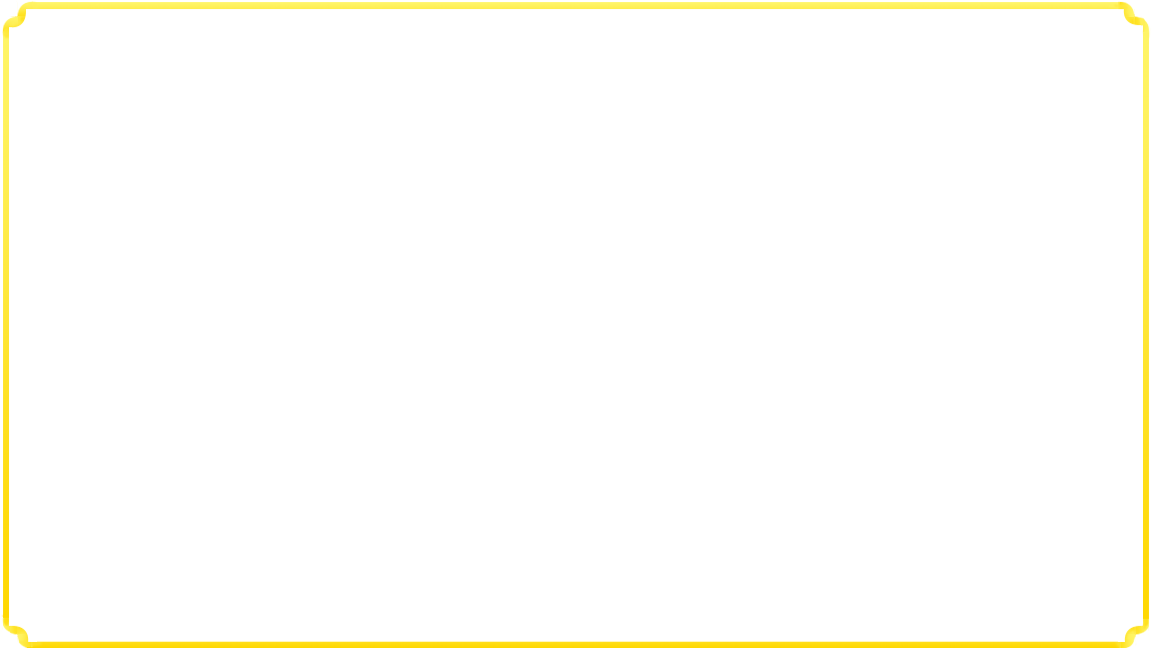
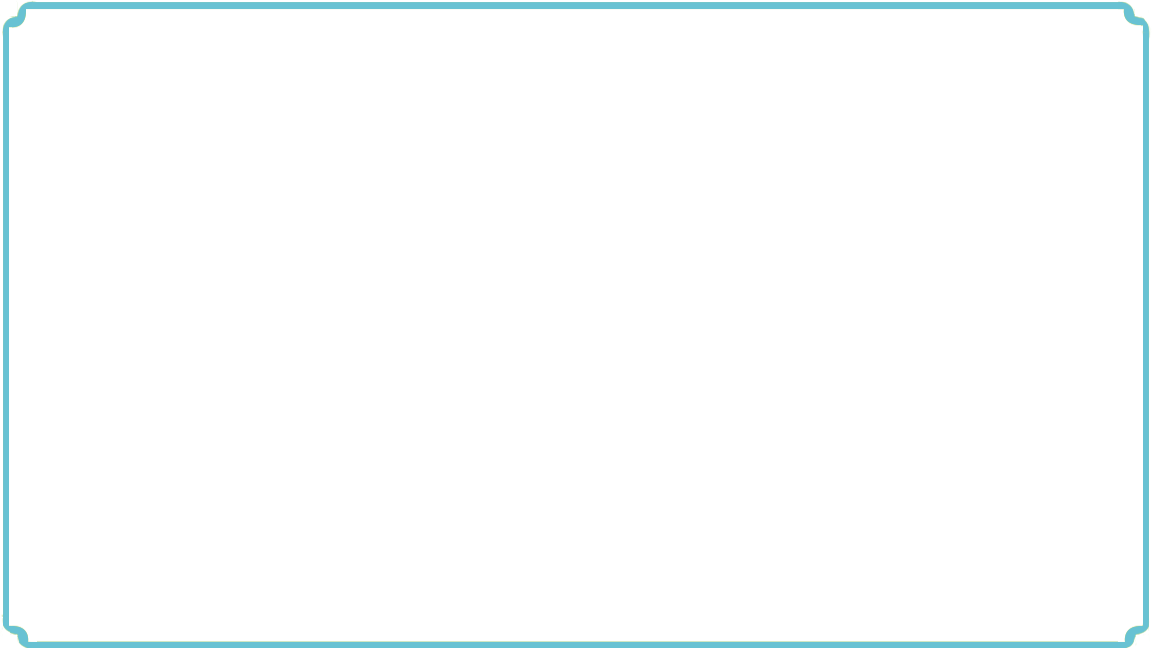
change color pallete

Changed region(s): [[0.0, 0.0, 1.0, 1.0]]

diff --git a/src/App.css b/src/App.css
@@ -4,10 +4,10 @@
 :root {
   --color-black: #000000;
   --color-white: #ffffff;
-  --color-raisin: #222221;
-  --color-apple: #4faf44;
-  --color-flavescent: #fff090;
-  --color-sun: #f6eb14;
+  --color-alabaster: #f2f0e5;
+  --color-iceberg: #68c2d3;
+  --color-cyan-azure: #4b80ca;
+  --color-sea-foam: #a2dcc7;
 }
 
 * {
@@ -40,7 +40,10 @@ body {
 }
 
 h1.title {
-  background: -webkit-linear-gradient(var(--color-apple), var(--color-sun));
+  background: -webkit-linear-gradient(
+    var(--color-cyan-azure),
+    var(--color-iceberg)
+  );
   background-clip: text;
   -webkit-text-fill-color: transparent;
   z-index: 9999;
@@ -60,7 +63,7 @@ h1.title {
   position: absolute;
   width: 100vw;
   height: 100vh;
-  background-color: var(--color-raisin);
+  background-color: var(--color-alabaster);
   display: flex;
   justify-content: center;
   align-items: center;
@@ -72,10 +75,9 @@ h1.title {
 }
 
 .vignette {
-  position: fixed;
-  top: 0;
-  left: 0;
-  width: 100%;
-  height: 100%;
-  box-shadow: inset 0 0 5em 1em #000;
+  width: 100vw;
+  height: 100vh;
+  background-image: url(https://s3-us-west-2.amazonaws.com/s.cdpn.io/86186/crt.png);
+  background-repeat: no-repeat;
+  background-size: 100% 100%;
 }

diff --git a/src/main/style.css b/src/main/style.css
@@ -1,6 +1,3 @@
-
-
-
 .main-wrapper {
   display: flex;
   flex-direction: column;
@@ -28,7 +25,7 @@ a {
 .arrow-menu {
   position: relative;
   display: block;
-  color: var(--color-sun);
+  color: var(--color-cyan-azure);
 }
 
 .menu-list-menu,
@@ -48,7 +45,10 @@ a {
 
 .title-menu h1,
 h2 {
-  background: -webkit-linear-gradient(var(--color-apple), var(--color-sun));
+  background: -webkit-linear-gradient(
+    var(--color-cyan-azure),
+    var(--color-iceberg)
+  );
   background-clip: text;
   -webkit-text-fill-color: transparent;
   transform: perspective(200px) rotateX(40deg);
@@ -57,7 +57,7 @@ h2 {
 .title-menu p {
   font-size: 15px;
   margin-left: -32px;
-  color: var(--color-white);
+  color: var(--color-sea-foam);
   font-family: 'Offside';
 }
 
@@ -70,7 +70,7 @@ h2 {
 }
 .arrow-menu:hover {
   cursor: pointer;
-  background-color: rgba(0, 0, 0, 0.2);
+  background-color: rgba(0, 0, 0, 0.1);
 }
 
 .arrow-menu:hover .sign-menu {

diff --git a/src/constants/variants.js b/src/constants/variants.js
@@ -1,6 +1,6 @@
 const colors = {
   white: '#FFFFFF',
-  raisin: '#222221',
+  alabaster: '#f2f0e5',
 }
 
 export const transitionVariant = {
@@ -8,13 +8,13 @@ export const transitionVariant = {
   animate: {
     scaleY: [0, 0.01, 0.01, 0.01, 1],
     scaleX: [0, 0.1, 0.5, 0.9, 1],
-    backgroundColor: [colors.white, colors.raisin],
+    backgroundColor: [colors.white, colors.alabaster],
     transition: { duration: 0.2, ease: 'easeInOut' },
   },
   exit: {
     scaleY: [1, 0.01, 0.01, 0.01, 0],
     scaleX: [1, 0.9, 0.5, 0.1, 0],
-    backgroundColor: [colors.raisin, colors.white],
+    backgroundColor: [colors.alabaster, colors.white],
     transition: { duration: 0.2, ease: 'easeInOut' },
   },
 }

diff --git a/src/components/menu-header/style.css b/src/components/menu-header/style.css
@@ -5,7 +5,6 @@
   left: -135px;
   z-index: 9999;
   text-transform: capitalize;
-  color: var(--color-sun);
   transform: rotate(270deg);
 }
 
@@ -18,5 +17,5 @@
 .selected {
   text-decoration-thickness: 2px !important;
   text-decoration: line-through;
-  text-decoration-color: var(--color-raisin) !important;
+  text-decoration-color: var(--color-alabaster) !important;
 }

diff --git a/src/constants/imagePaths.js b/src/constants/imagePaths.js
@@ -4,7 +4,7 @@ const imagePaths = {
   chatBox: './images/chatbox.png',
   colorBar: './images/color-bar.svg',
   frame: './images/frame.png',
-  logoYellow: './images/logo-yellow.png',
+  logoBlue: './images/logo-blue.png',
   noise: './images/noise.jpg',
 }
 

diff --git a/src/utilities/linkComponent.js b/src/utilities/linkComponent.js
@@ -9,7 +9,7 @@ export const linkComponent = (text, pathname = '') => {
   const logo = (
     <Image
       height='30px'
-      src={imagePaths.logoYellow}
+      src={imagePaths.logoBlue}
       className='sign-menu'
       alt='cursor'
     />

diff --git a/src/about/style.css b/src/about/style.css
@@ -38,7 +38,7 @@
   position: absolute;
   bottom: 35px;
   z-index: 2;
-  color: var(--color-raisin);
+  color: var(--color-black);
   width: 1100px;
   line-height: 1.5;
   font-size: 15px;

diff --git a/src/components/start-button/style.css b/src/components/start-button/style.css
@@ -12,5 +12,5 @@
 .start-button h1 {
   font-size: 40px;
   font-weight: 700;
-  color: var(--color-sun);
+  color: var(--color-cyan-azure);
 }

diff --git a/src/components/text-options/style.css b/src/components/text-options/style.css
@@ -10,4 +10,5 @@
   cursor: pointer;
   font-size: 12px;
   text-align: left;
+  border: solid 3px black;
 }
